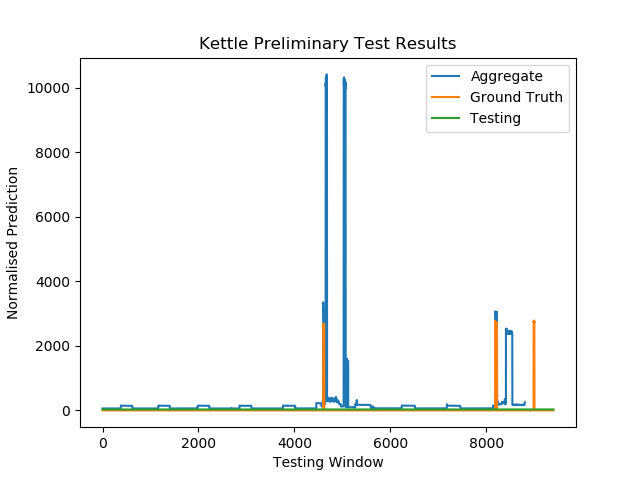
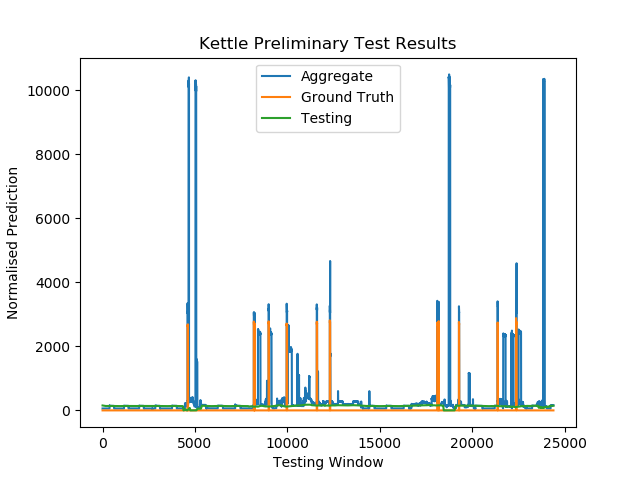
Implements device-wise saving structure and fixes offset plotting

diff --git a/seq2point_test.py b/seq2point_test.py
@@ -8,7 +8,7 @@ from data_feeder import TestingChunkSlider
 from appliance_data import appliance_data
 import matplotlib.pyplot as plt
 
-def test_model(appliance, test_domain, crop, batch_size):
+def test_model(appliance, algorithm, test_domain, crop, batch_size):
 
     """Tests a pre-trained seq2point model in either the domain it was trained in or using transfer 
     learning Plots and saves the results.
@@ -38,13 +38,13 @@ def test_model(appliance, test_domain, crop, batch_size):
 
         data_frame = pd.read_csv(file_name, nrows=crop, header=0)
         test_input = np.round(np.array(data_frame.iloc[:, 0], float), 6)
-        test_target = np.round(np.array(data_frame.iloc[offset:-offset, 1], float), 6)
+        test_target = np.round(np.array(data_frame.iloc[offset: -offset, 1], float), 6)
         
         del data_frame
         return test_input, test_target
 
-    model_directory = "./" + appliance + "/saved_model/"
-    test_file = "./" + test_domain + "/" + test_domain + "_test_.csv"
+    model_directory = "./" + appliance + "/saved_model/" + appliance + "_model_"
+    test_file = "./" + appliance + "/" + appliance + "_test_.csv"
 
     offset = int(0.5 * 601 - 1)
 
@@ -53,9 +53,9 @@ def test_model(appliance, test_domain, crop, batch_size):
     # Initialise the model and testing generator.
     model = create_model()
 
-    model = load_model(model, model_directory)
+    model = load_model(model, algorithm, model_directory)
 
-    test_generator = TestingChunkSlider(number_of_windows=1000, inputs=test_input, offset=offset)
+    test_generator = TestingChunkSlider(number_of_windows=100, inputs=test_input, offset=offset)
 
     # Calculate the optimum steps per epoch.
     steps_per_test_epoch = np.round(int(test_generator.total_size / batch_size), decimals=0)
@@ -65,24 +65,24 @@ def test_model(appliance, test_domain, crop, batch_size):
     testing_history = model.predict_generator(test_generator.load_data(), steps=steps_per_test_epoch)
     end_time = time.time()
     test_time = end_time - start_time
-    print("Test Time: ", test_time)
-    print("Num of Zeros: ", np.count_nonzero(model.layers[2].get_weights()[0]==0))
 
-    testing_history = ((testing_history * appliance_data[test_domain]["std"]) + appliance_data[test_domain]["mean"])
-    test_target = ((test_target * appliance_data[test_domain]["std"]) + appliance_data[test_domain]["mean"])
+    print("Test Time: ", test_time)
+
+    testing_history = ((testing_history * appliance_data[appliance]["std"]) + appliance_data[appliance]["mean"])
+    test_target = ((test_target * appliance_data[appliance]["std"]) + appliance_data[appliance]["mean"])
     test_agg = (test_input.flatten() * 814) + 522
     test_agg = test_agg[:testing_history.size]
 
     # Can't have negative energy readings - set any results below 0 to 0.
-    # test_target[test_target < 0] = 0
-    # testing_history[testing_history < 0] = 0
-    # test_input[test_input < 0] = 0
+    test_target[test_target < 0] = 0
+    testing_history[testing_history < 0] = 0
+    test_input[test_input < 0] = 0
 
     # Plot testing outcomes against ground truth.
     plt.figure(1)
     plt.plot(test_agg[offset: -offset], label="Aggregate")
-    plt.plot(test_target[0 : testing_history.size], label="Ground Truth")
-    plt.plot(testing_history, label="Testing")
+    plt.plot(test_target[:test_agg.size - (2 * offset)], label="Ground Truth")
+    plt.plot(testing_history[:test_agg.size - (2 * offset)], label="Testing")
     plt.title('Kettle Preliminary Test Results')
     plt.ylabel('Normalised Prediction')
     plt.xlabel('Testing Window')

diff --git a/spp_callback_2.py b/spp_callback_2.py
@@ -1,0 +1,92 @@
+import numpy as np
+from numpy.linalg import norm
+import tensorflow as tf 
+
+class SPP2(tf.keras.callbacks.Callback):
+    def __init__(self):
+        super(SPP2, self).__init__()
+
+        self.PRUNING_FREQUENCY = 5
+
+        self.R = 0.5
+        self.A = 0.05
+        self.u = 0.25
+
+        self.layer_distances = []
+        self.network_probabilities = []
+        self.network_deltas = []
+
+        self.pruning_iteration = 0
+
+    def on_epoch_end(self, epoch, logs={}):
+        self.print_layers()
+        self.pruning_iteration += 1
+
+    def manhattan_distance(self, weight_group):
+        return(norm(weight_group, ord=1))
+
+    def rank_weight_groups(self, distances):
+        return np.array(distances).argsort().argsort()
+
+    def calculate_delta_ranks(self, filter_ranks):
+        alpha = self.alpha(len(filter_ranks))
+        N = self.N(alpha)
+
+        delta_ranks = []
+        for rank in filter_ranks:
+            if rank <= N:
+                delta = self.A * np.power(np.exp(1), - alpha * rank)
+            else:
+                delta = (2 * self.u * self.A) - (self.A * np.power(np.exp(1), - alpha * ((2 * N) - rank)))
+            delta_ranks.append(delta)
+        return delta_ranks
+
+
+    def alpha(self, num_filters):
+        return (np.log10(2) - np.log10(self.u)) / (self.R * num_filters)
+
+    def N(self, alpha):
+        return - np.log10(self.u) / alpha
+
+    # [ [1, 2, 3, 4], [1, 2, 3, 4], [1, 2, 3, 4] ]
+
+    def update_probabilities(self, layer_index, delta_ranks):
+        filter_probabilities = []
+
+        old = self.network_probabilities
+
+        filter_index = 0
+        for delta_rank in delta_ranks:
+            if self.pruning_iteration == 0:
+                filter_probabilities.append(np.maximum(np.minimum(delta_rank, 1), 0))
+                self.network_probabilities.append(filter_probabilities)
+            else:
+                print("OLD: ", self.network_probabilities[layer_index])
+                filter_probabilities.append(np.maximum(np.minimum(self.network_probabilities[layer_index][filter_index] + delta_rank, 1), 0))
+                print("NEW: ", filter_probabilities)
+                self.network_probabilities[layer_index] = filter_probabilities
+
+        if old == self.network_probabilities:
+            print("THEY ARE THE SAME ://")
+            print()
+
+
+    def print_layers(self):
+        layer_index = 0
+        for layer in self.model.layers:
+
+            weights = layer.get_weights()
+            if np.shape(weights)[0] != 0:
+                if np.ndim(weights[0]) == 4:
+
+                    filter_distances = []
+                    filter_ranks = []
+                    for kernel in weights[0]:
+                        filter_distances.append(self.manhattan_distance(np.array(kernel).flatten()))
+                    
+                    filter_ranks = self.rank_weight_groups(filter_distances)
+                    delta_ranks = self.calculate_delta_ranks(filter_ranks)
+
+                    self.update_probabilities(layer_index, delta_ranks)
+
+                    layer_index += 1

diff --git a/seq2point_train.py b/seq2point_train.py
@@ -9,7 +9,7 @@ from tensorflow_model_optimization import sparsity
 
 from data_feeder import InputChunkSlider
 from model_structure import create_dropout_model, create_model, save_model, load_model
-from spp_callback import SPP
+from spp_callback_2 import SPP2
 from entropic_callback import Entropic
 from threshold_callback import Threshold
 
@@ -71,7 +71,7 @@ def train_model(APPLIANCE, PRUNING_ALGORITHM, BATCH_SIZE, CROP):
 
         training_history = model.fit_generator(TRAINING_CHUNKER.load_dataset(),
             steps_per_epoch=steps_per_training_epoch,
-            epochs=15,
+            epochs=1,
             verbose=1,
             # validation_data = VALIDATION_CHUNKER.load_dataset(),
             # validation_steps=0,
@@ -133,7 +133,7 @@ def train_model(APPLIANCE, PRUNING_ALGORITHM, BATCH_SIZE, CROP):
 
         """
 
-        spp = SPP(model=model)
+        spp = SPP2()
 
         training_history = model.fit_generator(TRAINING_CHUNKER.load_dataset(),
             steps_per_epoch=steps_per_training_epoch,
@@ -238,4 +238,4 @@ def train_model(APPLIANCE, PRUNING_ALGORITHM, BATCH_SIZE, CROP):
     plt.savefig(fname="training_results.png")
     plt.show()
 
-    save_model(model, PRUNING_ALGORITHM, "./kettle/saved_model/kettle_model")
+    save_model(model, PRUNING_ALGORITHM, "./" + APPLIANCE + "/saved_model/" + APPLIANCE + "_model_")

diff --git a/model_structure.py b/model_structure.py
@@ -72,14 +72,12 @@ def save_model(model, algorithm, path):
 
     """
 
-    if not os.path.exists (path + "_" + algorithm + "_weights.h5"):
-        open((path + algorithm + "_" + "_weights.h5"), 'a').close()
-    if not os.path.exists (path + "_" + algorithm + ".h5"):
-        open((path + "_" + algorithm + ".h5"), 'a').close()
-    model.save(path + "_" + algorithm + ".h5")
-    model.save_weights(path + "_" + algorithm + "_weights.h5")
+    if not os.path.exists (path + algorithm + ".h5"):
+        open((path + algorithm + ".h5"), 'a').close()
 
-def load_model(model, path):
+    model.save(path + algorithm + ".h5")
+
+def load_model(model, algorithm, path):
 
     """Loads a model from a specified location.
 
@@ -89,7 +87,10 @@ def load_model(model, path):
 
     """
 
-    model = tf.keras.models.load_model("./kettle/saved_model/kettle_model.h5")
+    model_name = path + algorithm + ".h5"
+    print("PATH NAME: ", model_name)
+
+    model = tf.keras.models.load_model(path + algorithm + ".h5")
     num_of_weights = model.count_params()
     print("Loaded model with ", str(num_of_weights), " weights")
     return model

diff --git a/test_main.py b/test_main.py
@@ -8,7 +8,8 @@ parser.add_argument("--appliance_name", type=remove_space, default="kettle", hel
 parser.add_argument("--transfer_domain", type=remove_space, default="kettle", help="The appliance used to train the model that you would like to test (i.e. transfer learning). ")
 parser.add_argument("--batch_size", type=int, default="1000", help="The batch size to use when training the network. Default is 1000. ")
 parser.add_argument("--crop", type=int, default="10000", help="The number of rows of the dataset to take training data from. Default is 10000. ")
+parser.add_argument("--pruning_algorithm", type=remove_space, default="default", help="The pruning algorithm of the model to test. Default is none. ")
 
 arguments = parser.parse_args()
 
-test_model(arguments.appliance_name, arguments.pruning_algorithm, arguments.batch_size, arguments.crop)
+test_model(arguments.appliance_name, arguments.pruning_algorithm, arguments.transfer_domain, arguments.crop, arguments.batch_size)

diff --git a/dataset_generator.py b/dataset_generator.py
@@ -4,7 +4,7 @@ import re
 import pandas as pd
 from appliance_data import appliance_data
 
-APPLIANCE = "kettle"
+APPLIANCE = "dishwasher"
 DIRECTORY = "./refit_dataset/"
 AGG_MEAN = 522
 AGG_STD = 814
